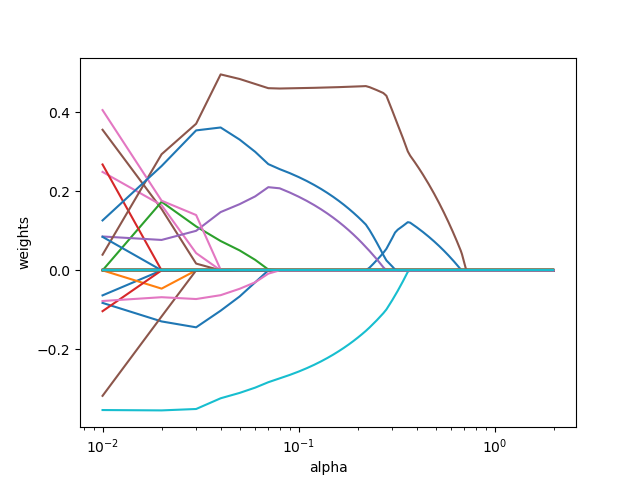
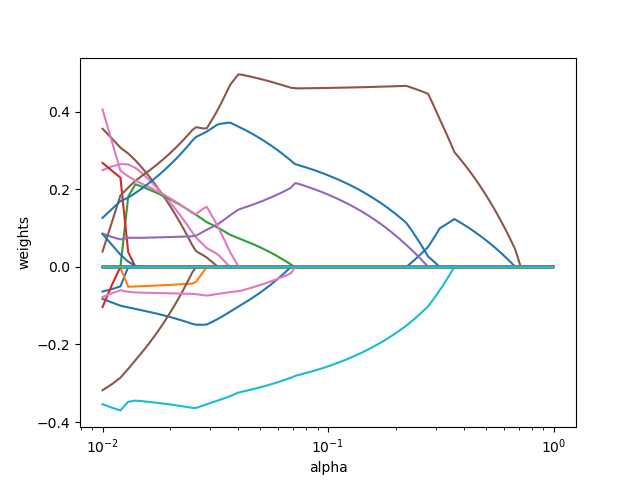
preprocess, join, main working

diff --git a/estimators.py b/estimators.py
@@ -3,6 +3,7 @@
 ################################
 import numpy as np
 import pandas as pd
+
 from definitions import *
 
 from sklearn.preprocessing import StandardScaler
@@ -17,7 +18,7 @@ from plot_functions import print_lasso_path
 ################################
 ### Arco method              ###
 ################################
-def arco(target: list, donors: list, target_impl_year: int):
+def arco(target: list, donors: list, alpha_min: float, alpha_max: float, alpha_step: float, lasso_iters: int):
 
     y = np.array(target).reshape(-1, 1)
     X = np.array(donors)
@@ -35,7 +36,7 @@ def arco(target: list, donors: list, target_impl_year: int):
     y = TargetVarScalerFit.transform(y)
 
     # Split the data into training and testing set
-    ts = (2019 - target_impl_year + 1) * 12
+    ts = (2019 - target_impl_year + 1) * timeframe_scale
     X_train, X_test, y_train, y_test = train_test_split(X, y, test_size=ts, random_state=42)
 
     # Quick sanity check with the shapes of Training and testing datasets
@@ -44,7 +45,9 @@ def arco(target: list, donors: list, target_impl_year: int):
     print(X_test.shape)
     print(y_test.shape)
 
-    print_lasso_path(X_train, y_train, alpha_min=0.01, alpha_max=2, alpha_step=0.01, lasso_iters=10000)
+    print_lasso_path(X_train, y_train,
+                     alpha_min=alpha_min, alpha_max=alpha_max, alpha_step=alpha_step,
+                     lasso_iters=lasso_iters)
 
     # define model
     model = LassoCV(

diff --git a/plot_functions.py b/plot_functions.py
@@ -30,11 +30,11 @@ def print_lasso_path(X: list, y: list, alpha_min: float, alpha_max: float, alpha
         plt.show()
 
 
-def plot_predictions(act: list, pred: list, target_impl_year: int):
+def plot_predictions(act: list, pred: list):
     plt.figure(figsize=(15, 6))
     plt.plot(act, label='actual')
     plt.plot(pred, label='predicted')
-    plt.axvline(x=target_impl_year/12)
+    plt.axvline(x=target_impl_year/timeframe_scale)
     plt.legend()
     if save_figs:
         plt.savefig(f'{figures_path}act_vs_pred.png')
@@ -42,15 +42,15 @@ def plot_predictions(act: list, pred: list, target_impl_year: int):
         plt.show()
 
 
-def plot_diff(act: list, pred: list, target_impl_year: int):
+def plot_diff(act: list, pred: list):
     diff = act - pred
-    print(sum(diff[:round(target_impl_year / 12)]))
-    print(sum(diff[round(target_impl_year / 12):]))
+    print(sum(diff[:round(target_impl_year / timeframe_scale)]))
+    print(sum(diff[round(target_impl_year / timeframe_scale):]))
 
     # act_cum = np.cumsum(act)
     # pred_cum = np.cumsum(pred)
-    act_cum = np.cumsum(act[round(target_impl_year / 12):])
-    pred_cum = np.cumsum(pred[round(target_impl_year / 12):])
+    act_cum = np.cumsum(act[round(target_impl_year / timeframe_scale):])
+    pred_cum = np.cumsum(pred[round(target_impl_year / timeframe_scale):])
 
     plt.figure(figsize=(15, 6))
     plt.plot(act_cum, label='act_cum')

diff --git a/main.py b/main.py
@@ -32,12 +32,13 @@ def main():
     target = pivot_target(df, target_country, target_var)
     donors = pivot_donors(df, donor_countries)
     # stationarity test
-    adf_test(df=donors)
+    # adf_test(df=donors)
     # arco
-    model, act, pred = arco(target=target, donors=donors, target_impl_year=target_impl_year)
+    model, act, pred = arco(target=target, donors=donors,
+                            alpha_min=0.01, alpha_max=1.0, alpha_step=0.001, lasso_iters=100000)
     # plot predictions versus actual
-    plot_predictions(act=act, pred=pred, target_impl_year=target_impl_year)
-    plot_diff(act=act, pred=pred, target_impl_year=target_impl_year)
+    plot_predictions(act=act, pred=pred)
+    plot_diff(act=act, pred=pred)
 
 
 if __name__ == "__main__":

diff --git a/helper_functions.py b/helper_functions.py
@@ -79,9 +79,11 @@ def downsample_month_to_quarter(df_monthly: object, country_col: str, date_col: 
 
 def upsample_quarter_to_month(df_quarterly: object, country_col: str, date_col: str,
                               var_quarterly: str, var_monthly: str):
+
     df_monthly = pd.DataFrame({var_monthly: [],
                                country_col: []}
                               )
+
     for country in df_quarterly[country_col].unique():
         df_country = df_quarterly.copy()
         df_country = df_country[df_country[country_col] == country].rename(columns={var_quarterly: var_monthly})

diff --git a/definitions.py b/definitions.py
@@ -10,9 +10,11 @@ show_plots = True
 save_figs = True
 
 # NON-STATIC DEFINITIONS
-data_file = 'total_monthly.csv'
+timeframe = 'monthly'
+timeframe_scale = 12
 target_country = 'iceland'
-target_var = 'co2_monthly'
+data_file = f'total_{timeframe}.csv'
+target_var = f'co2_{timeframe}'
 
 # COUNTRIES, YEARS INCLUDED
 target_countries = ['switzerland', 'iceland', 'ireland', 'france', 'portugal']  # 5x
